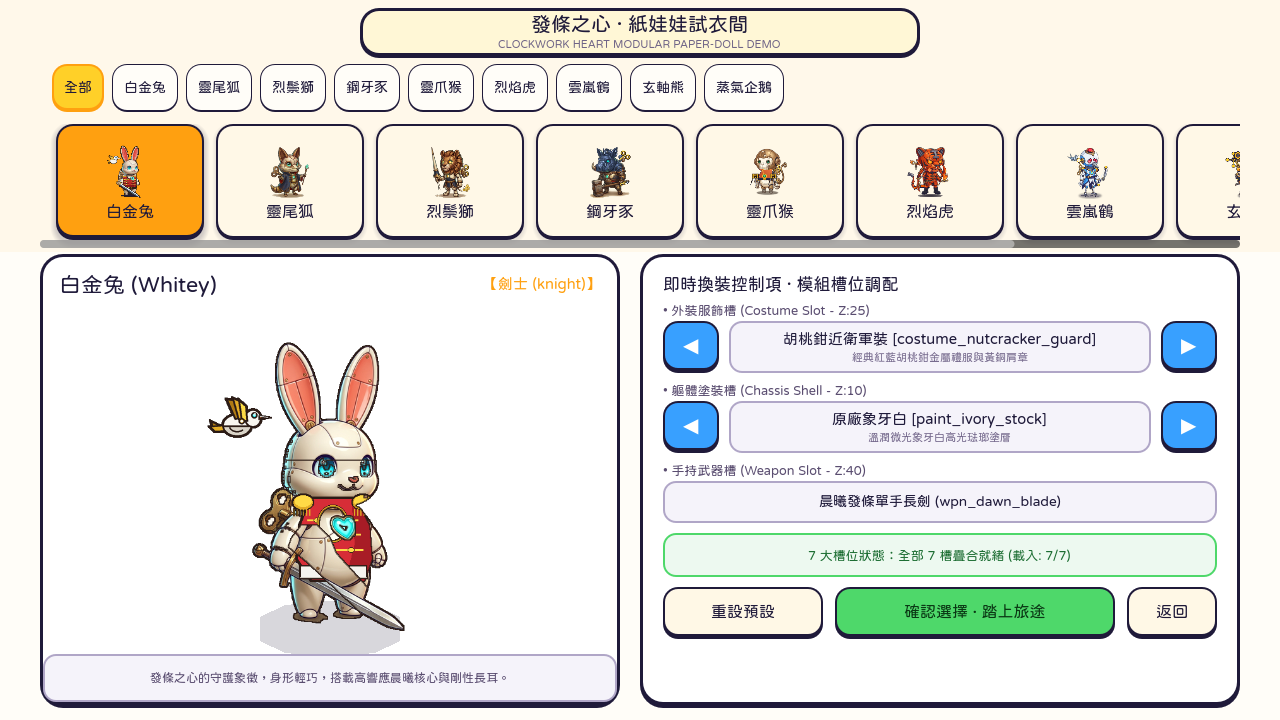
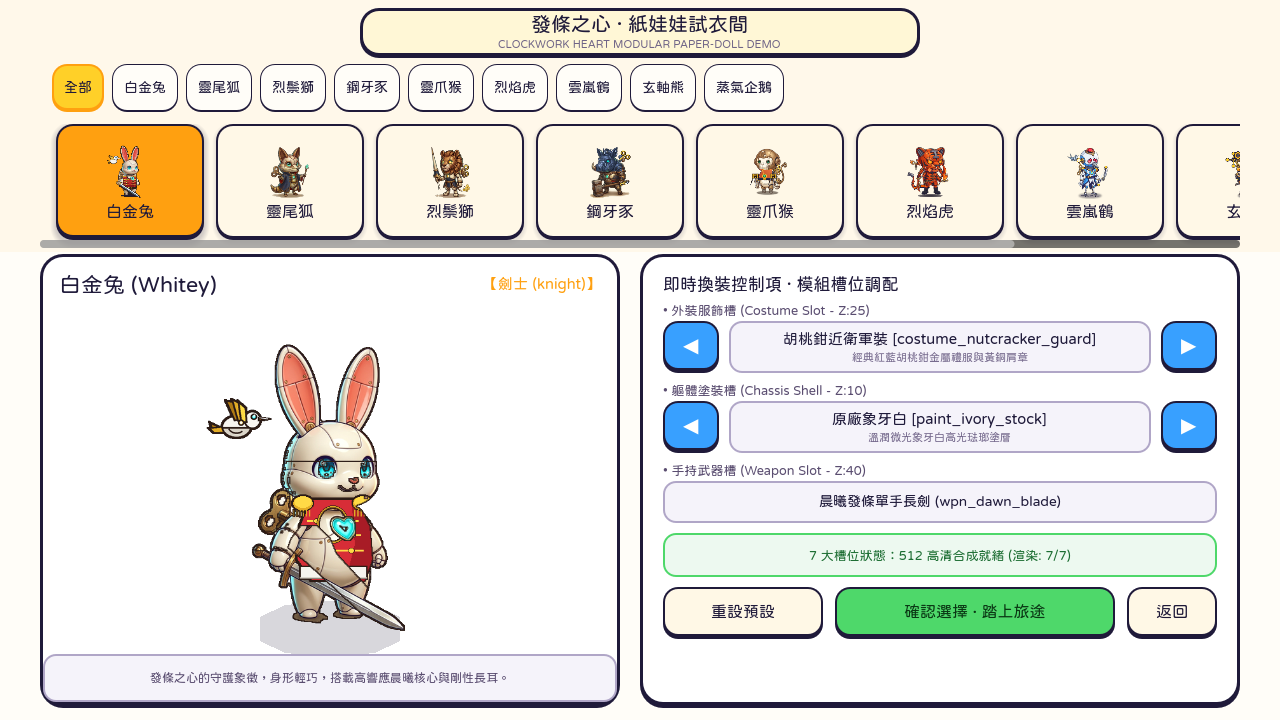
fix(creation): 修正開局選族 512 合成武器渲染、修正狐族臉部錯位青綠光球 (t_6947dee2)

Changed region(s): [[0.1562, 0.4583, 0.3125, 0.825], [0.625, 0.7639, 0.8125, 0.7944], [0.2812, 0.7639, 0.3125, 0.7944]]

diff --git a/tools/verify_creation_stage_512.py b/tools/verify_creation_stage_512.py
@@ -106,8 +106,35 @@ def main():
             sys.exit(1)
         print(f"    ✓ [{race}] 0-QA17 通過: 重複欄比例={dup_col_ratio:.2%} (<8%), 色數={unique_colors} (>5000)")
 
+    # 4. 狐族臉部錯位青綠光球否證量測 (review 意見 2)
+    print("\n=== 4. 狐族臉部錯位青綠光球否證量測 ===")
+    fox_img = Image.open(proof_files["fox"]).convert("RGBA")
+    fox_arr = np.array(fox_img)
+    fox_face = fox_arr[380:480, 270:360]
+    face_cyan = (fox_face[:, :, 1] > 120) & (fox_face[:, :, 2] > 100) & (fox_face[:, :, 0] < fox_face[:, :, 1] - 20)
+    cyan_count = np.sum(face_cyan)
+    print(f"  狐族臉部區域 (y:380..480, x:270..360) 孤立青綠像素數: {cyan_count}")
+    if cyan_count > 0:
+        print(f"FAIL: 狐族臉部仍有殘留青綠色像素 ({cyan_count})！")
+        sys.exit(1)
+    print("  ✓ 狐族臉部乾淨，無錯位青綠色發光球！")
+
+    # 5. 0-ART26c 武器渲染量測 (review 意見 1: 獅族手持長槍判定)
+    print("\n=== 5. 0-ART26c 武器渲染量測 ===")
+    lion_img = Image.open(proof_files["lion"]).convert("RGBA")
+    lion_arr = np.array(lion_img)
+    # 獅族右手持長槍區域 (x:240..275, y:360..460)
+    lance_crop = lion_arr[360:460, 240:275]
+    # 長槍槍身主要為金黃/乳白/深青色
+    lance_pixels = np.sum((lance_crop[:, :, 3] > 200) & (lance_crop[:, :, :3].mean(axis=2) > 100))
+    print(f"  獅族長槍區域實機像素數: {lance_pixels}")
+    if lance_pixels < 200:
+        print(f"FAIL: 獅族長槍未正確渲染！(像素數={lance_pixels})")
+        sys.exit(1)
+    print("  ✓ 獅族長槍清晰持於手上，武器槽位渲染通過！")
+
     print("\n==================================================================")
-    print("✓ 全項驗證通過：0-QA18 (1280x720 完整畫面), 0-QA17 (512+LINEAR 平滑無鋸齒), 0-QA15 (無重複)")
+    print("✓ 全項驗證通過：0-QA18 (1280x720 完整畫面), 0-QA17 (512+LINEAR 平滑無鋸齒), 0-QA15 (無重複), 0-ART26c (武器完整渲染), 狐面乾淨")
     print("==================================================================")
 
 if __name__ == "__main__":
